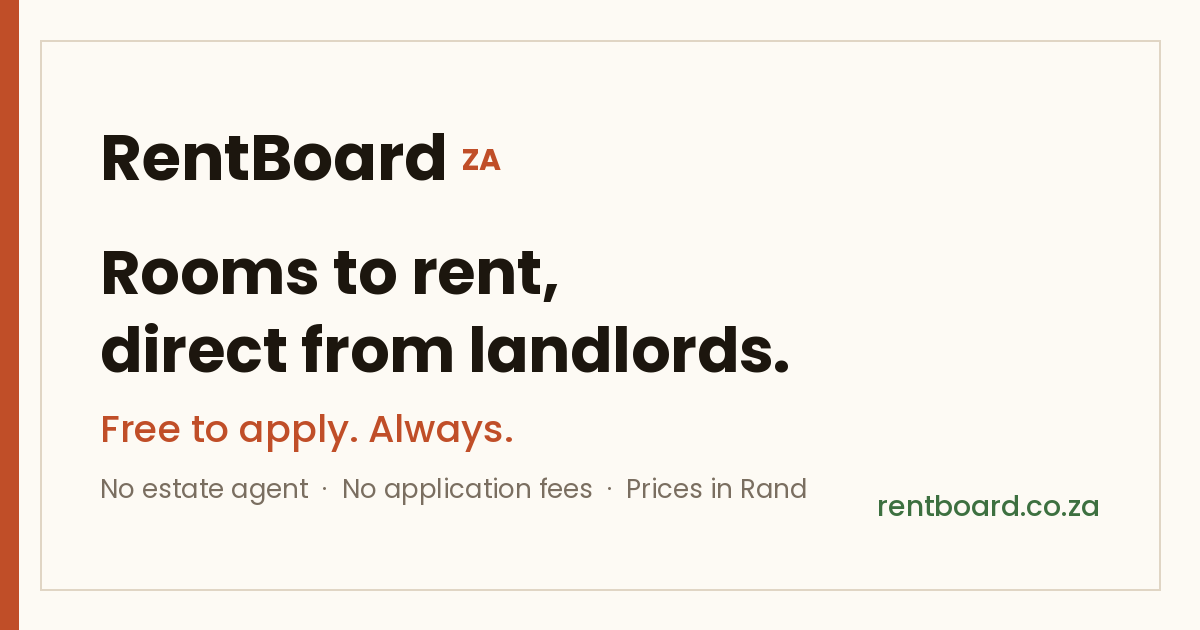
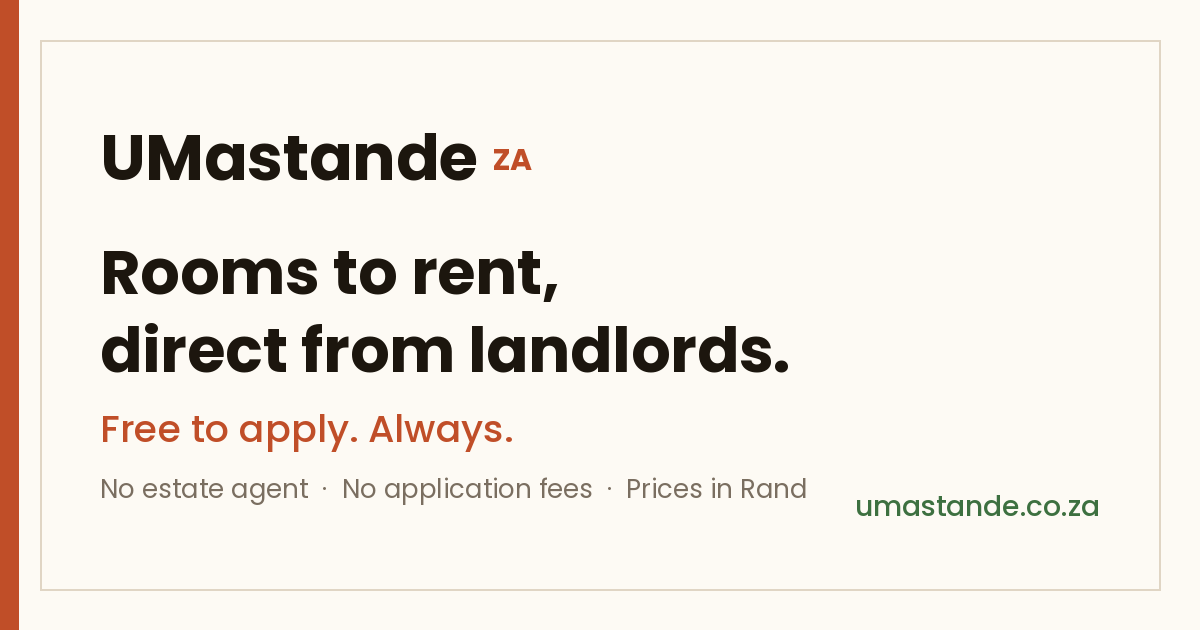
fix(seo): refresh the default social card
Regenerated og-default.png from scripts/generate-og-image.py.
1200x630 — the size Facebook, WhatsApp, LinkedIn and X all accept
without re-cropping.

Changed region(s): [[0.0925, 0.2111, 0.4625, 0.3016], [0.7092, 0.7841, 0.8633, 0.8444]]

diff --git a/scripts/generate-og-image.py b/scripts/generate-og-image.py
@@ -3,6 +3,11 @@
 Generates frontend/src/assets/images/og-default.png — the fallback social card.
 
     python3 scripts/generate-og-image.py
+    python3 scripts/generate-og-image.py --brand UMastande --domain umastande.co.za
+
+Brand name and domain are flags, not hard-coded strings. During a rebrand the
+card is the single most-shared visual the product has, and it should not need
+a code edit to keep up with whatever the name currently is.
 
 Why this is a script and not a one-off export from a design tool: the card
 carries the mission's short form, and that wording is canonical. When the
@@ -31,12 +36,13 @@ Design decisions, so they are not re-litigated later:
     legible at the 200px-wide thumbnail size WhatsApp actually renders.
 """
 
+import argparse
 from pathlib import Path
 from PIL import Image, ImageDraw, ImageFont
 
 # ── Brand palette — mirrors frontend/src/styles/_variables.scss ──
 INK = (0x1C, 0x16, 0x0E)        # $color-ink, primary text
-TERRACOTTA = (0xAD, 0x42, 0x22)  # $color-terracotta, primary action
+TERRACOTTA = (0xC0, 0x4E, 0x28)  # $color-terracotta, primary action
 SAGE = (0x3D, 0x70, 0x40)        # $color-sage
 CARD = (0xFD, 0xFA, 0xF4)        # $color-card, surface
 BORDER = (0xE0, 0xD5, 0xC4)      # $color-border
@@ -66,7 +72,21 @@ def font(path: Path, size: int) -> ImageFont.FreeTypeFont:
     return ImageFont.truetype(str(path), size)
 
 
+def parse_args() -> argparse.Namespace:
+    p = argparse.ArgumentParser(description="Generate the default Open Graph social card.")
+    p.add_argument("--brand", default="UMastande", help="Wordmark text.")
+    p.add_argument(
+        "--suffix",
+        default="ZA",
+        help="Small superscript after the wordmark. Pass an empty string to omit it.",
+    )
+    p.add_argument("--domain", default="umastande.co.za", help="Domain shown bottom-right.")
+    p.add_argument("--out", default=str(OUT), help="Output path.")
+    return p.parse_args()
+
+
 def main() -> None:
+    args = parse_args()
     img = Image.new("RGB", (W, H), CARD)
     d = ImageDraw.Draw(img)
 
@@ -82,9 +102,29 @@ def main() -> None:
     y = 112
 
     # ── Wordmark ──
-    d.text((x, y), "Mastande", font=font(BOLD, 64), fill=INK)
-    wordmark_w = d.textlength("Mastande", font=font(BOLD, 64))
-    d.text((x + wordmark_w + 14, y + 26), "ZA", font=font(BOLD, 30), fill=TERRACOTTA)
+    # Auto-shrunk if a longer brand name would run into the right margin.
+    # "UMastande" is wider than "RentBoard" at the same size, and a wordmark
+    # that silently clips is worse than one a few points smaller.
+    size = 64
+    while size > 40:
+        f_mark = font(BOLD, size)
+        total = d.textlength(args.brand, font=f_mark) + 14 + d.textlength(
+            args.suffix, font=font(BOLD, int(size * 0.47))
+        )
+        if x + total < W - MARGIN:
+            break
+        size -= 2
+
+    f_mark = font(BOLD, size)
+    d.text((x, y), args.brand, font=f_mark, fill=INK)
+    if args.suffix:
+        wordmark_w = d.textlength(args.brand, font=f_mark)
+        d.text(
+            (x + wordmark_w + 14, y + int(size * 0.41)),
+            args.suffix,
+            font=font(BOLD, int(size * 0.47)),
+            fill=TERRACOTTA,
+        )
 
     y += 116
 
@@ -109,7 +149,7 @@ def main() -> None:
     )
 
     # ── Domain, bottom right ──
-    domain = "umastande.co.za"
+    domain = args.domain
     f = font(MEDIUM, 28)
     d.text(
         (W - MARGIN - d.textlength(domain, font=f), H - MARGIN - 44),
@@ -118,13 +158,14 @@ def main() -> None:
         fill=SAGE,
     )
 
-    OUT.parent.mkdir(parents=True, exist_ok=True)
+    out = Path(args.out)
+    out.parent.mkdir(parents=True, exist_ok=True)
     # optimize=True keeps it well under the 300KB that some clients refuse to
     # fetch on a slow connection.
-    img.save(OUT, "PNG", optimize=True)
+    img.save(out, "PNG", optimize=True)
 
-    kb = OUT.stat().st_size / 1024
-    print(f"Wrote {OUT.relative_to(ROOT)}  {img.width}x{img.height}  {kb:.0f}KB")
+    kb = out.stat().st_size / 1024
+    print(f"Wrote {out}  {img.width}x{img.height}  {kb:.0f}KB  — {args.brand} / {domain}")
     if kb > 300:
         raise SystemExit("Over 300KB — some clients will not fetch this. Reduce it.")
 
